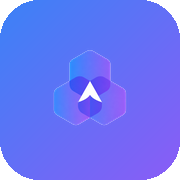
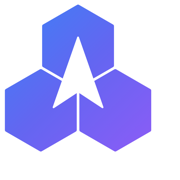
branding update

diff --git a/src/routes/__root.tsx b/src/routes/__root.tsx
@@ -38,6 +38,7 @@ export const Route = createRootRoute({
     ],
     links: [
       { rel: "stylesheet", href: appCss },
+      { rel: "icon", href: "/favicon.svg", type: "image/svg+xml" },
       { rel: "icon", href: "/favicon.png", type: "image/png" },
       { rel: "apple-touch-icon", href: "/apple-touch-icon.png" },
       { rel: "preconnect", href: "https://fonts.googleapis.com" },

diff --git a/src/components/ui/Logo.tsx b/src/components/ui/Logo.tsx
@@ -1,6 +1,6 @@
 import React from 'react';
 import { Link } from "@tanstack/react-router";
-import adharSymbol from '@/assets/adhar-symbol.png';
+import adharSymbol from '@/assets/branding/symbol-color.svg';
 
 interface LogoProps {
   size?: 'sm' | 'md' | 'lg';

diff --git a/src/components/landing/HeroTitle.tsx b/src/components/landing/HeroTitle.tsx
@@ -1,6 +1,6 @@
 import React from 'react';
 import { Link } from "@tanstack/react-router";
-import adharSymbol from '@/assets/adhar-symbol.png';
+import adharSymbol from '@/assets/branding/symbol-color.svg';
 
 interface HeroTitleProps {
   isVisible: boolean;

diff --git a/src/components/architecture/DiagramHeader.tsx b/src/components/architecture/DiagramHeader.tsx
@@ -1,7 +1,7 @@
 
 import React from 'react';
 import { Play, Pause } from "lucide-react";
-import adharLogo from '@/assets/adhar-logo.png';
+import adharLogo from '@/assets/branding/adhar-logo.svg';
 
 interface DiagramHeaderProps {
   isPlaying: boolean;

diff --git a/src/components/LoadingScreen.tsx b/src/components/LoadingScreen.tsx
@@ -1,5 +1,5 @@
 import React from 'react';
-import adharSymbol from '@/assets/adhar-symbol.png';
+import adharSymbol from '@/assets/branding/symbol-color.svg';
 
 const LoadingScreen = () => {
   return (

diff --git a/src/components/architecture/ArchitectureHeader.tsx b/src/components/architecture/ArchitectureHeader.tsx
@@ -1,5 +1,5 @@
 import React from 'react';
-import adharLogo from '@/assets/adhar-logo.png';
+import adharLogo from '@/assets/branding/adhar-logo.svg';
 
 const ArchitectureHeader = () => {
   return (

diff --git a/src/components/AICore.tsx b/src/components/AICore.tsx
@@ -1,5 +1,5 @@
 import React from 'react';
-import adharLogo from '@/assets/adhar-logo.png';
+import adharLogo from '@/assets/branding/adhar-logo.svg';
 
 const AICore = () => {
   return (
